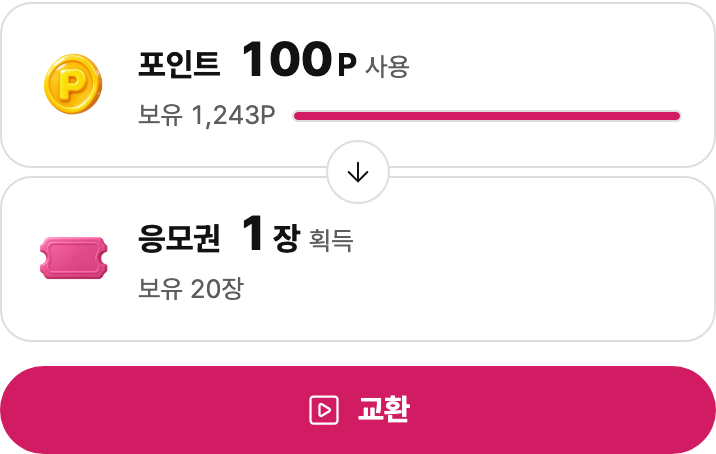
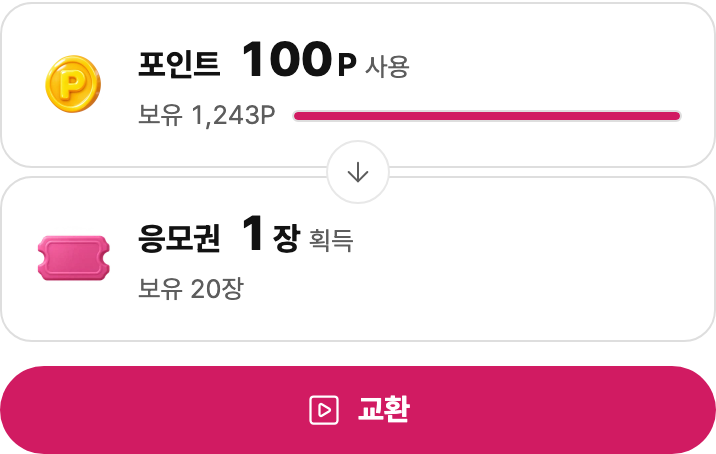
fix(dukjil): balance wallet assets by optical size, quiet the seam chip
독립 판정 21:4x: coin read big, ticket flat. Scale the four arts to the
same optical size, sqrt(visible w x h) about 28.5 in the 40 box
(measured on screen: coin 28x29, ticket 36x23, stamp 26x30, heart
31x27), so the flat ticket carries a little more painted area than the
disc. Seam chip: line-subtle ring and muted arrow. Release-note
captures retaken.

Changed region(s): [[0.0615, 0.0925, 0.1536, 0.2775], [0.0307, 0.4934, 0.1536, 0.6167], [0.4916, 0.37, 0.5223, 0.4009]]

diff --git a/apps/web/features/group-wallet/ui/stan-wallet.module.css b/apps/web/features/group-wallet/ui/stan-wallet.module.css
@@ -13,13 +13,14 @@
 .cell { display:grid; grid-template-columns:auto minmax(0,1fr); grid-template-areas:"asset text"; align-items:center; column-gap:var(--space-3); position:relative; isolation:isolate; min-width:0; min-block-size:76px; box-sizing:border-box; padding:var(--space-4); border:1px solid var(--color-line); border-radius:var(--radius-card); background:var(--color-surface); color:var(--color-ink); text-decoration:none; }
 .cell:focus-visible { outline:2px solid var(--color-focus); outline-offset:2px; }
 .cellAsset { grid-area:asset; display:block; flex:none; width:40px; height:40px; object-fit:contain; }
-/* 대표 11/13 20:36 "아이콘 크기가 서로 다릅니다": the four arts fill their frames differently (coin 87×90%, ticket 68×42%,
-   stamp 49×57%, heart 57×50% of the image, alpha bounding box). Each is scaled to one visible size in the 40 box: coin 30, ticket 34×21
-   (wide and flat), stamp 27×32, heart 30×26. The coin's full disc and yellow gloss read heavier than the heart at the same width (감독 21:3x B2). */
-.cellAsset[data-reward-kind="point"] { transform:scale(.84); }
-.cellAsset[data-reward-kind="ticket"] { transform:scale(1.25); }
-.cellAsset[data-reward-kind="stamp"] { transform:scale(1.4); }
-.cellAsset[data-reward-kind="heart"] { transform:scale(1.3); }
+/* 대표 11/13 20:36 "아이콘 크기가 서로 다릅니다" + 독립 판정 21:4x "동전 크고 응모권 납작": the four arts fill their frames differently
+   (alpha bounding box: coin 87×90%, ticket 68×42%, stamp 49×57%, heart 57×50%). Each is scaled to the same optical size, √(visible w×h) ≈ 28.5
+   in the 40 box: coin 28×28, ticket 36×22, stamp 26×31, heart 30×27. The flat ticket gets a little more painted area than the disc
+   (opaque px² ≈ coin 630, ticket 750, stamp 560, heart 590) so it does not read smaller. */
+.cellAsset[data-reward-kind="point"] { transform:scale(.8); }
+.cellAsset[data-reward-kind="ticket"] { transform:scale(1.33); }
+.cellAsset[data-reward-kind="stamp"] { transform:scale(1.36); }
+.cellAsset[data-reward-kind="heart"] { transform:scale(1.33); }
 .cellText { grid-area:text; display:grid; gap:var(--space-1); min-width:0; }
 /* 감독 21:3x B1·B5: name, amount and 사용/획득 on one line, the balance smaller under it — no empty middle between 보유 and the amount. */
 .cellMain { display:flex; align-items:baseline; gap:var(--space-2); min-width:0; }
@@ -33,7 +34,8 @@
 .cell::after { content:""; position:absolute; inset:0; z-index:-1; border-radius:inherit; background:var(--color-accent-soft); opacity:0; pointer-events:none; }
 .cell[data-changed]::after { animation:wallet-balance-changed var(--motion-reward) var(--motion-easing) 1; }
 @keyframes wallet-balance-changed { from { opacity:1; } to { opacity:0; } }
-.joint { position:absolute; inset-block-start:50%; inset-inline-start:50%; z-index:1; display:grid; place-items:center; width:32px; height:32px; box-sizing:border-box; border:1px solid var(--color-line); border-radius:50%; background:var(--color-surface); color:var(--color-ink); transform:translate(-50%,-50%); pointer-events:none; }
+/* 독립 판정 21:4x: the seam chip read louder than the amounts — subtle ring and a muted arrow (existing tokens). */
+.joint { position:absolute; inset-block-start:50%; inset-inline-start:50%; z-index:1; display:grid; place-items:center; width:32px; height:32px; box-sizing:border-box; border:1px solid var(--color-line-subtle); border-radius:50%; background:var(--color-surface); color:var(--color-muted); transform:translate(-50%,-50%); pointer-events:none; }
 /* The track is neutral so only the filled part is pink (감독 21:3x B3: a pink track sat next to the pink heart). It runs to the cell's end. */
 .bar { position:relative; flex:1 1 auto; min-inline-size:40px; display:block; box-sizing:border-box; height:6px; border:1px solid var(--color-line); border-radius:var(--radius-pill); background:var(--color-line-subtle); overflow:hidden; }
 .barFill { position:absolute; inset-block:0; inset-inline-start:0; inline-size:var(--wallet-bar-fill); border-radius:inherit; background:var(--color-accent); transition:inline-size var(--motion-slow) var(--motion-easing); }
